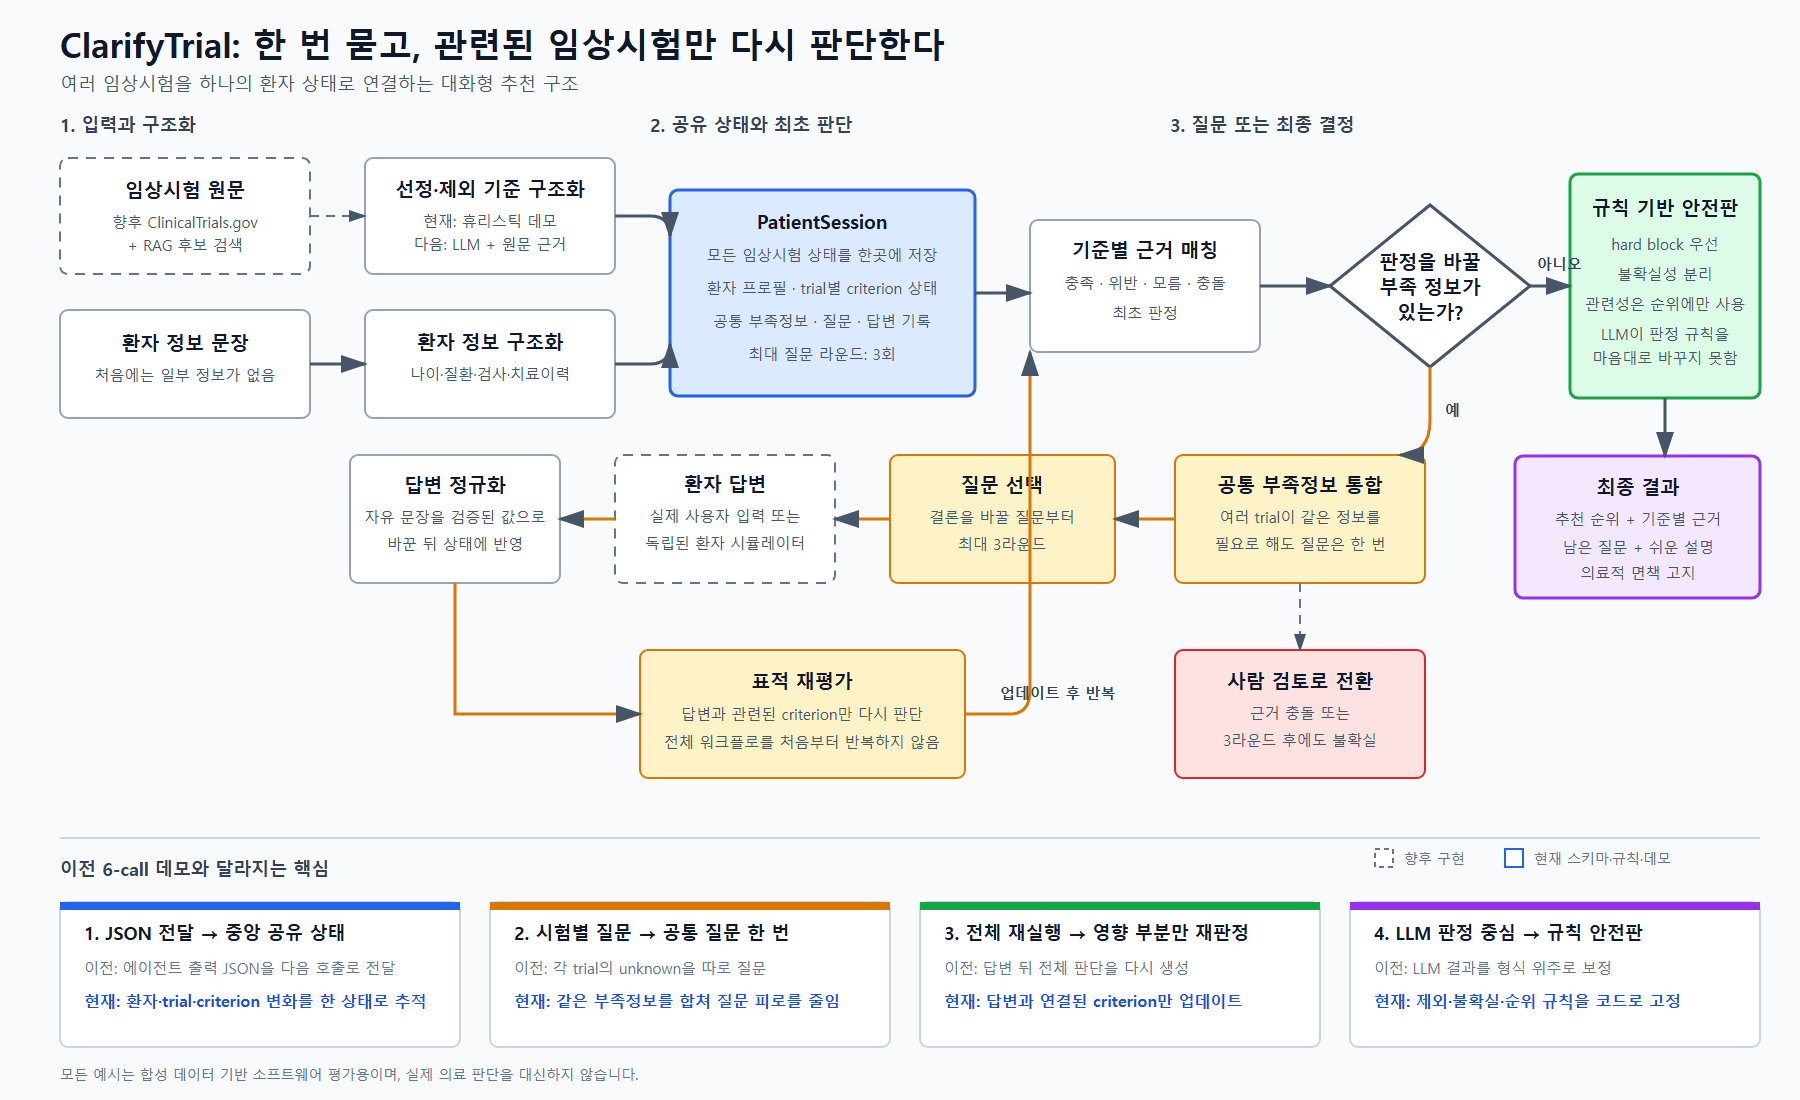
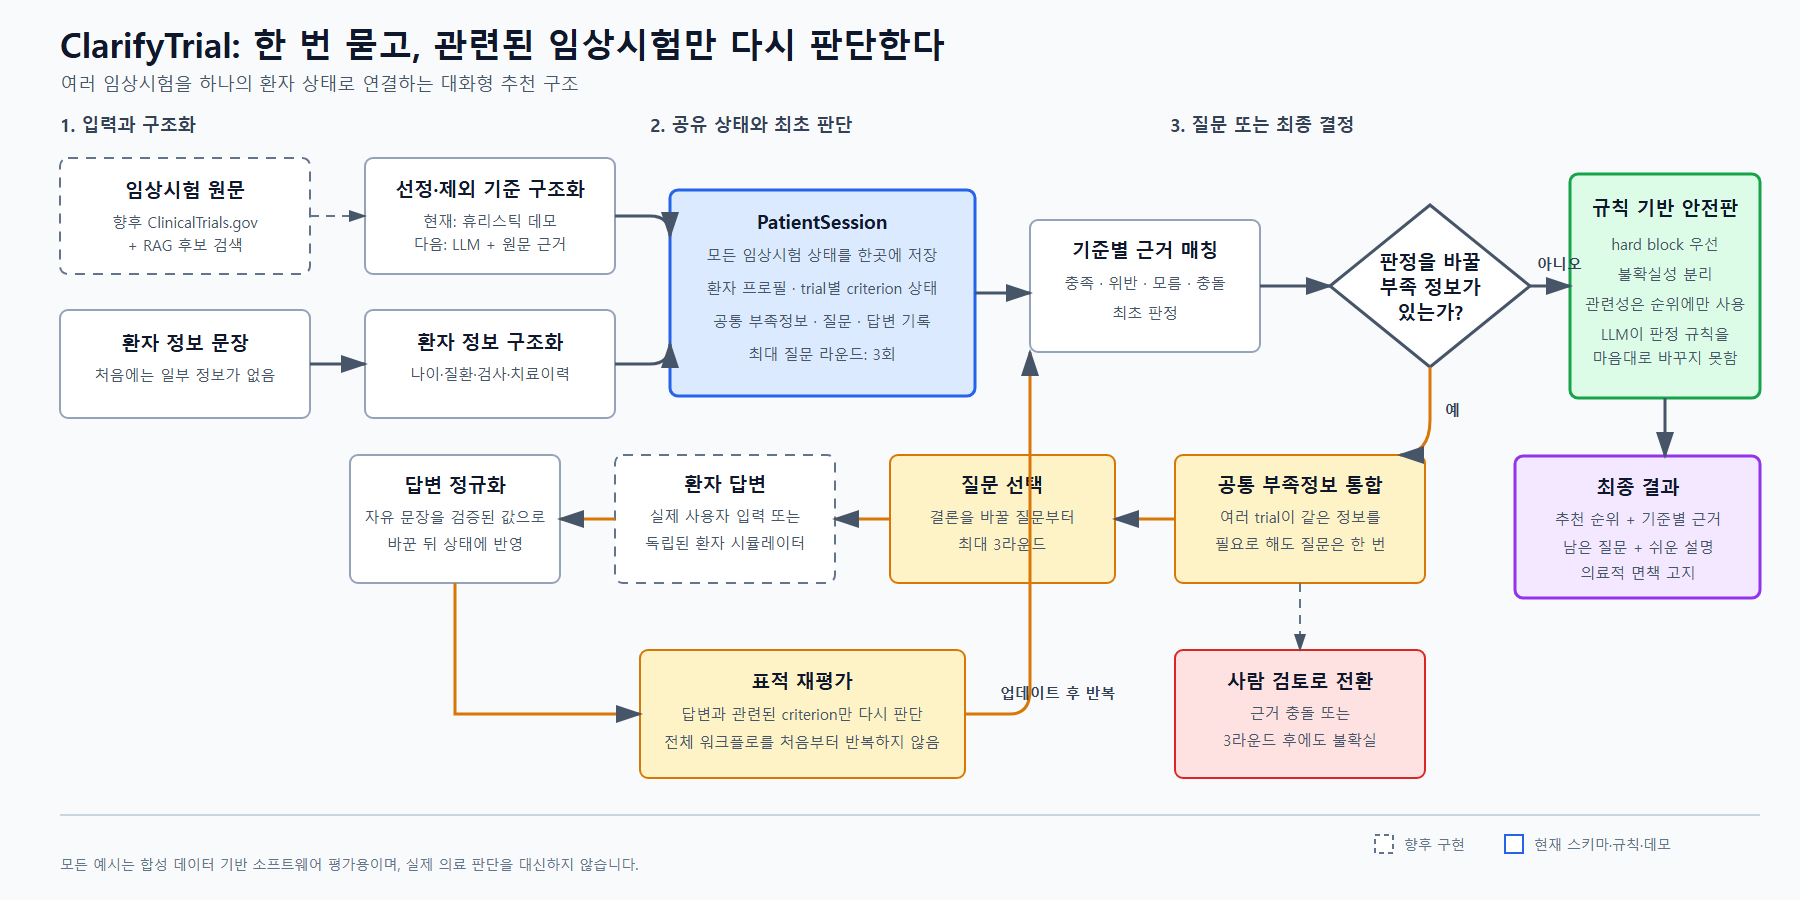
Remove previous demo comparisons

Changed region(s): [[0.0311, 0.0311, 0.9956, 0.9956], [0.6533, 0.0933, 0.7467, 0.1556]]

diff --git a/docs/project-overview-ko.md b/docs/project-overview-ko.md
@@ -26,7 +26,6 @@
 
 ### 1. 모든 판단을 한 상태에 저장한다
 
-이전 데모는 각 에이전트의 JSON 출력을 다음 에이전트에 전달하는 방식이었다.
 ClarifyTrial은 `PatientSession`에 구조화 환자 정보, 임상시험별 기준 판단,
 부족정보, 질문·답변 이력, 변경된 기준과 최종 추천을 함께 저장한다.
 
@@ -63,18 +62,6 @@ ECOG와 연결된 `criterion_id`만 찾아 재평가한다. 이것이 표적 재
 LLM은 긴 기준 구조화, 환자 문장 정규화, 의미 매칭, 질문 표현과 설명을 맡는다.
 Python은 부족정보 중복 제거, 질문 제한, 상태 갱신, 선정·제외 효과, 최종 추천
 우선순위와 사람 검토 전환을 맡는다.
-
-## 이전 Health Agent 데모와 비교
-
-| 항목 | 이전 6-call 데모 | ClarifyTrial 방향 |
-|---|---|---|
-| 실행 구조 | 정해진 호출을 순서대로 실행 | 상태에 따라 질문·조회·재판정·종료가 갈림 |
-| 상태 | 앞 에이전트 JSON을 다음 호출에 포함 | 중앙 `PatientSession`에 전체 변화 저장 |
-| 질문 | trial별 unknown에서 질문 생성 | 여러 trial의 공통 부족정보를 합치고 우선순위화 |
-| 정보 획득 | 가상 답변을 같은 에이전트가 생성 | 숨은 정답, 실제 사용자 답변 또는 선택적 EHR 조회 |
-| 재판정 | 전체 최종 판단을 다시 생성 | 답변과 연결된 criterion만 재평가 |
-| 최종 결정 | LLM 결과를 Python이 형식 보정 | 결정 규칙 자체를 Python에 고정 |
-| 연구 질문 | 주어진 후보를 얼마나 잘 판단하는가 | 어떤 정보가 적은 행동으로 추천을 가장 많이 개선하는가 |
 
 ## 데이터 사용 가능성 검증 결과
 